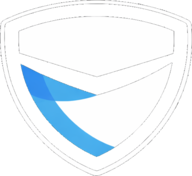
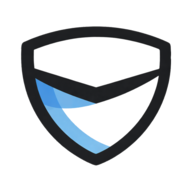
fix: resolve splash screen and background color issues
- Use user-provided cutout logo for splash screen (logo_dark_on_white_for_cutout_finished.png)
- Add explicit white/dark background colors to body element
- Light mode: white background (#ffffff)
- Dark mode: zinc-900 background (#18181b)
- Fixes brown/ugly background colors in both modes
- Fixes splash screen box artifact with proper transparent logo

diff --git a/src/index.css b/src/index.css
@@ -27,24 +27,17 @@
   -moz-osx-font-smoothing: grayscale;
 }
 
-@media (prefers-color-scheme: light) {
-  :root {
-    color: #213547;
-    background-color: #ffffff;
-  }
-}
-
-@media (prefers-color-scheme: dark) {
-  :root {
-    color: rgba(255, 255, 255, 0.87);
-    background-color: #242424;
-  }
-}
-
 body {
   margin: 0;
   min-width: 320px;
   min-height: 100vh;
+  background-color: white;
+}
+
+@media (prefers-color-scheme: dark) {
+  body {
+    background-color: #18181b;
+  }
 }
 
 #root {
